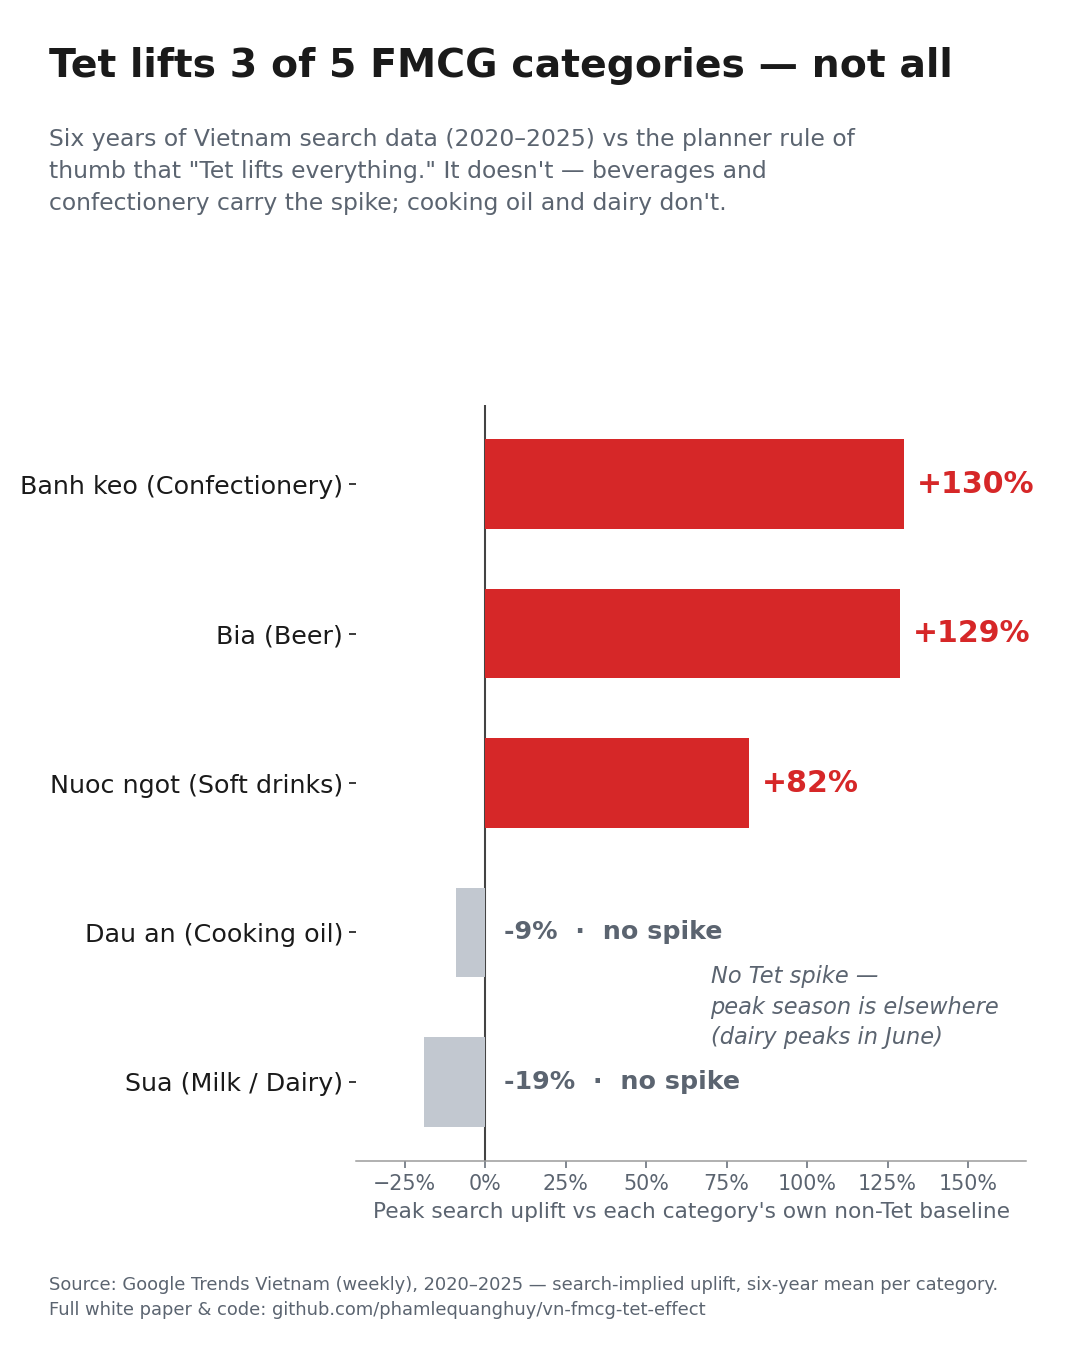
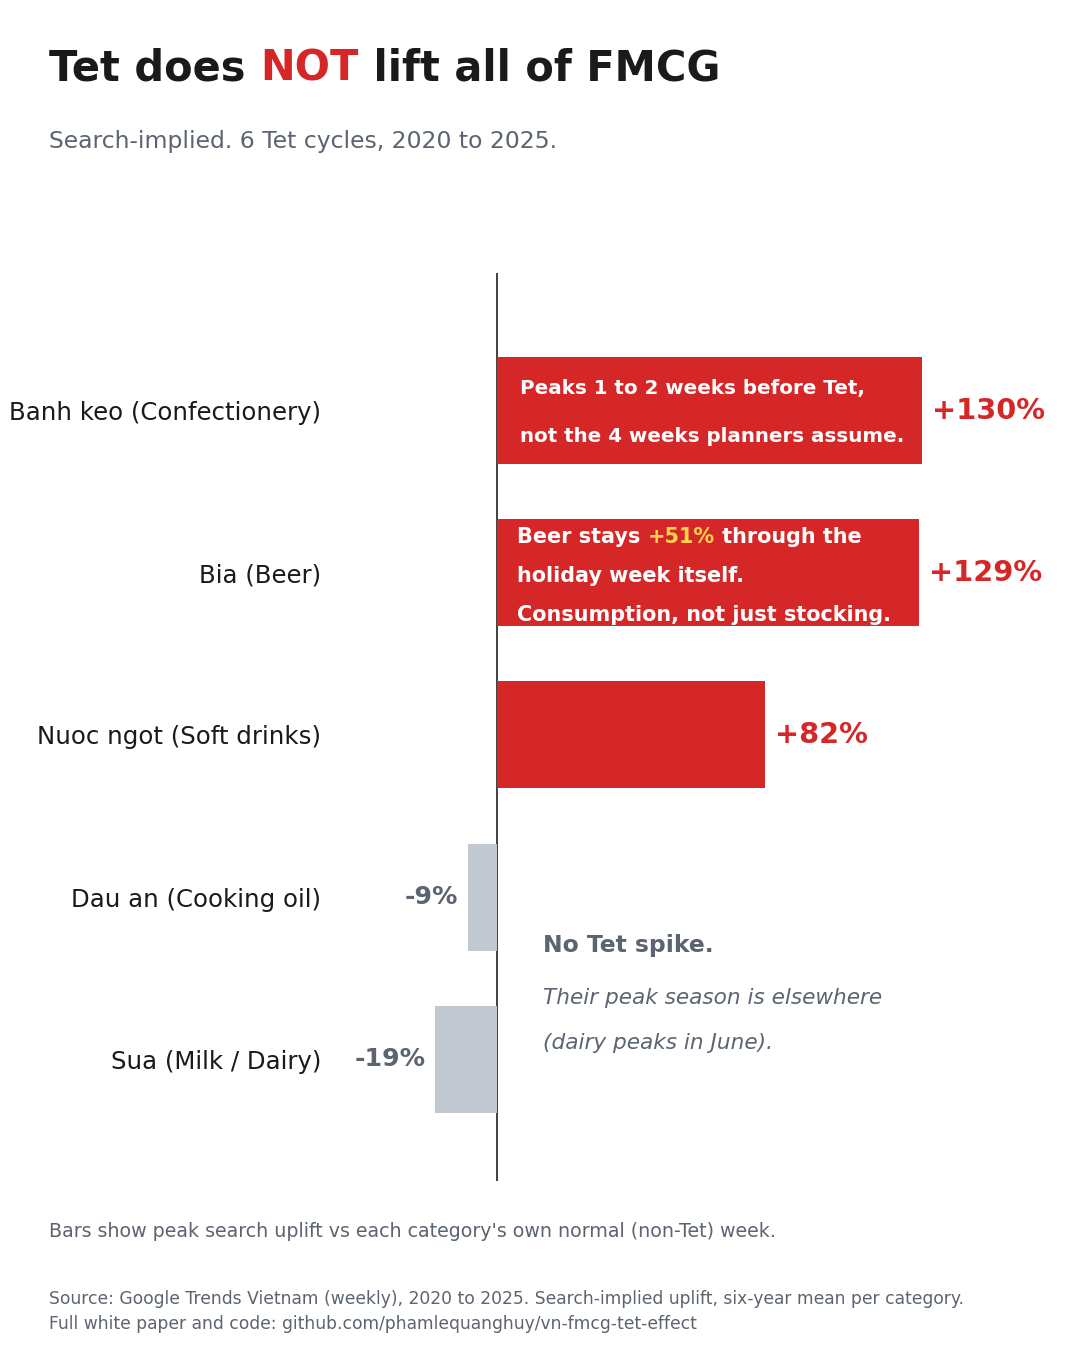
Redesign Post 3 summary chart to be caption-free: on-chart insight annotations, colored title, no em-dashes

diff --git a/scripts/make_summary_ranking.py b/scripts/make_summary_ranking.py
@@ -1,26 +1,29 @@
 """Generate the LinkedIn Post 3 (white-paper wrap-up) summary chart.
 
-A horizontal bar chart ranking the five FMCG categories by mean peak Tet
-uplift %, making the "Tet is not blanket" finding visible at a glance:
-the three Tet-sensitive categories are coloured a bold festive red, the two
-non-spiking categories a muted grey for contrast.
+This is the project's hero chart: it must carry the full story with no caption.
+A horizontal bar chart ranks the five FMCG categories by mean peak Tet uplift %,
+with the three Tet-sensitive categories in bold red and the two non-spiking
+categories in muted grey. The key insights (peak timing, beer's holiday-week
+consumption, the two no-spike categories) are annotated directly on the chart.
 
 Numbers are the published six-year (2020-2025) means from the white paper
 (Table 3.1): search-implied, expressed as uplift relative to each category's
 own within-year non-Tet baseline. This is descriptive of figures already
 committed in output/whitepaper/whitepaper.md, not a re-computation.
 
+Text style: no em/en dashes (they read as AI); short, natural phrasing; key
+numbers highlighted in colour so the eye catches them immediately.
+
 Output: output/linkedin/summary_ranking.png  (4:5, mobile-friendly)
 """
 from pathlib import Path
 import matplotlib.pyplot as plt
-from matplotlib.ticker import PercentFormatter
 
 ROOT = Path(__file__).resolve().parents[1]
 OUT = ROOT / "output" / "linkedin" / "summary_ranking.png"
 OUT.parent.mkdir(parents=True, exist_ok=True)
 
-# (ASCII label, peak uplift %, is_tet_spike) — already sorted descending.
+# (ASCII label, peak uplift %, is_tet_spike) -- already sorted descending.
 CATS = [
     ("Banh keo (Confectionery)", 130, True),
     ("Bia (Beer)", 129, True),
@@ -29,67 +32,104 @@ CATS = [
     ("Sua (Milk / Dairy)", -19, False),
 ]
 
-SPIKE = "#d62728"    # festive red — strong, repeatable Tet spike
-NOSPIKE = "#c2c8d0"  # muted grey — no detected Tet spike
+SPIKE = "#d62728"     # festive red  -> strong, repeatable Tet spike
+NOSPIKE = "#c2c8d0"   # muted grey   -> no detected Tet spike
+HILITE = "#ffd34d"    # warm yellow  -> highlighted number on a red bar
 INK = "#1a1a1a"
 MUTE = "#5b6470"
+WHITE = "#ffffff"
 
 labels = [c[0] for c in CATS]
 vals = [c[1] for c in CATS]
 colors = [SPIKE if c[2] else NOSPIKE for c in CATS]
 
-fig, ax = plt.subplots(figsize=(8.0, 10.0), dpi=135)  # -> 1080 x 1350
-fig.subplots_adjust(left=0.33, right=0.95, top=0.70, bottom=0.14)
+fig, ax = plt.subplots(figsize=(8.4, 10.5), dpi=130)  # -> 1092 x 1365 (4:5)
+fig.subplots_adjust(left=0.30, right=0.97, top=0.80, bottom=0.135)
 
 y = list(range(len(CATS)))
-ax.barh(y, vals, color=colors, height=0.60, zorder=3)
-ax.invert_yaxis()  # highest-ranked category on top
+ax.barh(y, vals, color=colors, height=0.66, zorder=3)
+ax.set_ylim(4.75, -0.85)            # inverted: highest-ranked on top
+ax.set_xlim(-52, 172)
+ax.axvline(0, color="#444", linewidth=1.1, zorder=2)   # baseline = own normal
 
-# Baseline (0% = each category's own non-Tet normal).
-ax.axvline(0, color="#444", linewidth=1.1, zorder=2)
-
-# Value labels: positive bars get the % at the bar tip; the two non-spiking
-# rows have empty space to the right of 0, so the label sits there instead of
-# colliding with the category names on the left.
-for yi, v in zip(y, vals):
-    if v >= 0:
-        ax.text(v + 4, yi, f"+{v}%", va="center", ha="left",
-                fontsize=16, fontweight="bold", color=SPIKE, zorder=4)
-    else:
-        ax.text(6, yi, f"{v}%  ·  no spike", va="center", ha="left",
-                fontsize=13.5, fontweight="bold", color=MUTE, zorder=4)
-
-# Note in the open space beside the two non-spiking rows.
-ax.text(70, 3.5, "No Tet spike —\npeak season is elsewhere\n(dairy peaks in June)",
-        fontsize=12, color=MUTE, va="center", ha="left", style="italic",
-        linespacing=1.4)
-
+# Strip the quantitative axis -- value labels carry the numbers (social-first).
+ax.set_xticks([])
+for spine in ("top", "right", "left", "bottom"):
+    ax.spines[spine].set_visible(False)
 ax.set_yticks(y)
 ax.set_yticklabels(labels, fontsize=13.5, color=INK)
-ax.set_xlim(-40, 168)
-ax.xaxis.set_major_formatter(PercentFormatter())
-ax.tick_params(axis="x", labelsize=11, colors=MUTE)
-ax.set_xlabel("Peak search uplift vs each category's own non-Tet baseline",
-              fontsize=11.5, color=MUTE)
-for spine in ("top", "right", "left"):
-    ax.spines[spine].set_visible(False)
-ax.spines["bottom"].set_color("#999")
+ax.tick_params(axis="y", length=0)
 
-# Storytelling title + subtitle (top-anchored so they stack cleanly).
-fig.text(0.045, 0.965, "Tet lifts 3 of 5 FMCG categories — not all",
-         fontsize=21, fontweight="bold", color=INK, ha="left", va="top")
-fig.text(0.045, 0.905,
-         "Six years of Vietnam search data (2020–2025) vs the planner rule of\n"
-         "thumb that \"Tet lifts everything.\" It doesn't — beverages and\n"
-         "confectionery carry the spike; cooking oil and dairy don't.",
-         fontsize=12.5, color=MUTE, ha="left", va="top", linespacing=1.5)
+# Value labels at each bar tip.
+ax.text(133, 0, "+130%", va="center", ha="left", fontsize=16, fontweight="bold", color=SPIKE)
+ax.text(132, 1, "+129%", va="center", ha="left", fontsize=16, fontweight="bold", color=SPIKE)
+ax.text(85, 2, "+82%", va="center", ha="left", fontsize=16, fontweight="bold", color=SPIKE)
+ax.text(-12, 3, "-9%", va="center", ha="right", fontsize=14, fontweight="bold", color=MUTE)
+ax.text(-22, 4, "-19%", va="center", ha="right", fontsize=14, fontweight="bold", color=MUTE)
+
+# Insight annotations, white-on-red, inside the wide bars.
+ax.text(7, -0.14, "Peaks 1 to 2 weeks before Tet,", va="center", ha="left",
+        fontsize=11, fontweight="bold", color=WHITE, zorder=5)
+ax.text(7, 0.16, "not the 4 weeks planners assume.", va="center", ha="left",
+        fontsize=11, fontweight="bold", color=WHITE, zorder=5)
+
+# Beer: lines 2-3 plain; line 1 has a highlighted +51% (drawn after render below).
+ax.text(6, 1.02, "holiday week itself.", va="center", ha="left",
+        fontsize=11.5, fontweight="bold", color=WHITE, zorder=5)
+ax.text(6, 1.26, "Consumption, not just stocking.", va="center", ha="left",
+        fontsize=11.5, fontweight="bold", color=WHITE, zorder=5)
+
+# No-spike group note, in the open space to the right of the two grey bars.
+ax.text(14, 3.30, "No Tet spike.", va="center", ha="left",
+        fontsize=13, fontweight="bold", color=MUTE)
+ax.text(14, 3.62, "Their peak season is elsewhere", va="center", ha="left",
+        fontsize=12, color=MUTE, style="italic")
+ax.text(14, 3.90, "(dairy peaks in June).", va="center", ha="left",
+        fontsize=12, color=MUTE, style="italic")
+
+# --- Coloured, width-aware text (title + the +51% inline highlight) ---
+fig.canvas.draw()
+R = fig.canvas.get_renderer()
+
+
+def chain(add_text, inv, start_x, y, segments):
+    """Draw left-to-right segments [(text, color), ...], advancing by rendered width."""
+    xx = start_x
+    for text, color in segments:
+        t = add_text(xx, y, text, color)
+        bb = t.get_window_extent(renderer=R)
+        xx += inv.transform((bb.x1, 0))[0] - inv.transform((bb.x0, 0))[0]
+
+
+# Title: "Tet does NOT lift all of FMCG", with NOT in red.
+chain(
+    lambda x, yy, txt, col: fig.text(x, yy, txt, fontsize=23, fontweight="bold",
+                                     color=col, ha="left", va="top"),
+    fig.transFigure.inverted(), 0.045, 0.965,
+    [("Tet does ", INK), ("NOT", SPIKE), (" lift all of FMCG", INK)],
+)
+
+# Beer line 1, inside the bar: "Beer stays +51% through the" with +51% in yellow.
+chain(
+    lambda x, yy, txt, col: ax.text(x, yy, txt, fontsize=11.5, fontweight="bold",
+                                    color=col, ha="left", va="center", zorder=5),
+    ax.transData.inverted(), 6, 0.78,
+    [("Beer stays ", WHITE), ("+51%", HILITE), (" through the", WHITE)],
+)
+
+# Sub-line under the title and the baseline clarifier.
+fig.text(0.045, 0.905, "Search-implied. 6 Tet cycles, 2020 to 2025.",
+         fontsize=13, color=MUTE, ha="left", va="top")
+fig.text(0.045, 0.105,
+         "Bars show peak search uplift vs each category's own normal (non-Tet) week.",
+         fontsize=10.5, color=MUTE, ha="left", va="top")
 
 # Source line + repo link.
 fig.text(0.045, 0.055,
-         "Source: Google Trends Vietnam (weekly), 2020–2025 — search-implied uplift, "
-         "six-year mean per category.\n"
-         "Full white paper & code: github.com/phamlequanghuy/vn-fmcg-tet-effect",
+         "Source: Google Trends Vietnam (weekly), 2020 to 2025. "
+         "Search-implied uplift, six-year mean per category.\n"
+         "Full white paper and code: github.com/phamlequanghuy/vn-fmcg-tet-effect",
          fontsize=9.5, color=MUTE, ha="left", va="top", linespacing=1.5)
 
-fig.savefig(OUT, dpi=135, facecolor="white")
+fig.savefig(OUT, dpi=130, facecolor="white")
 print("Saved:", OUT.relative_to(ROOT), f"({OUT.stat().st_size // 1024} KB)")
